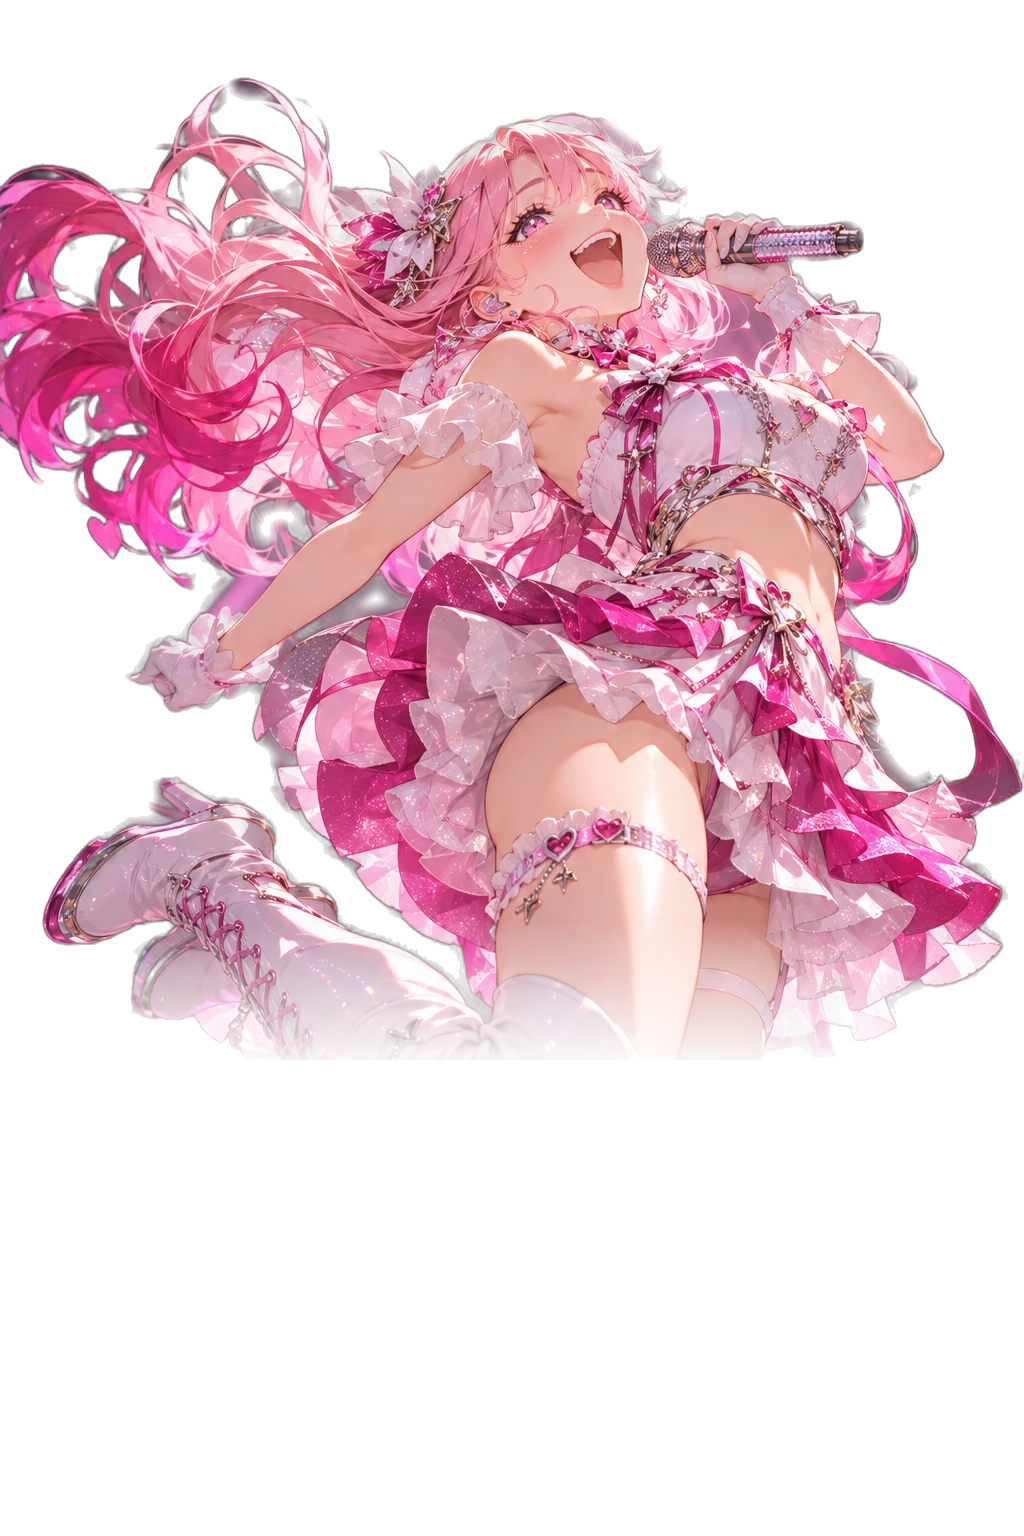
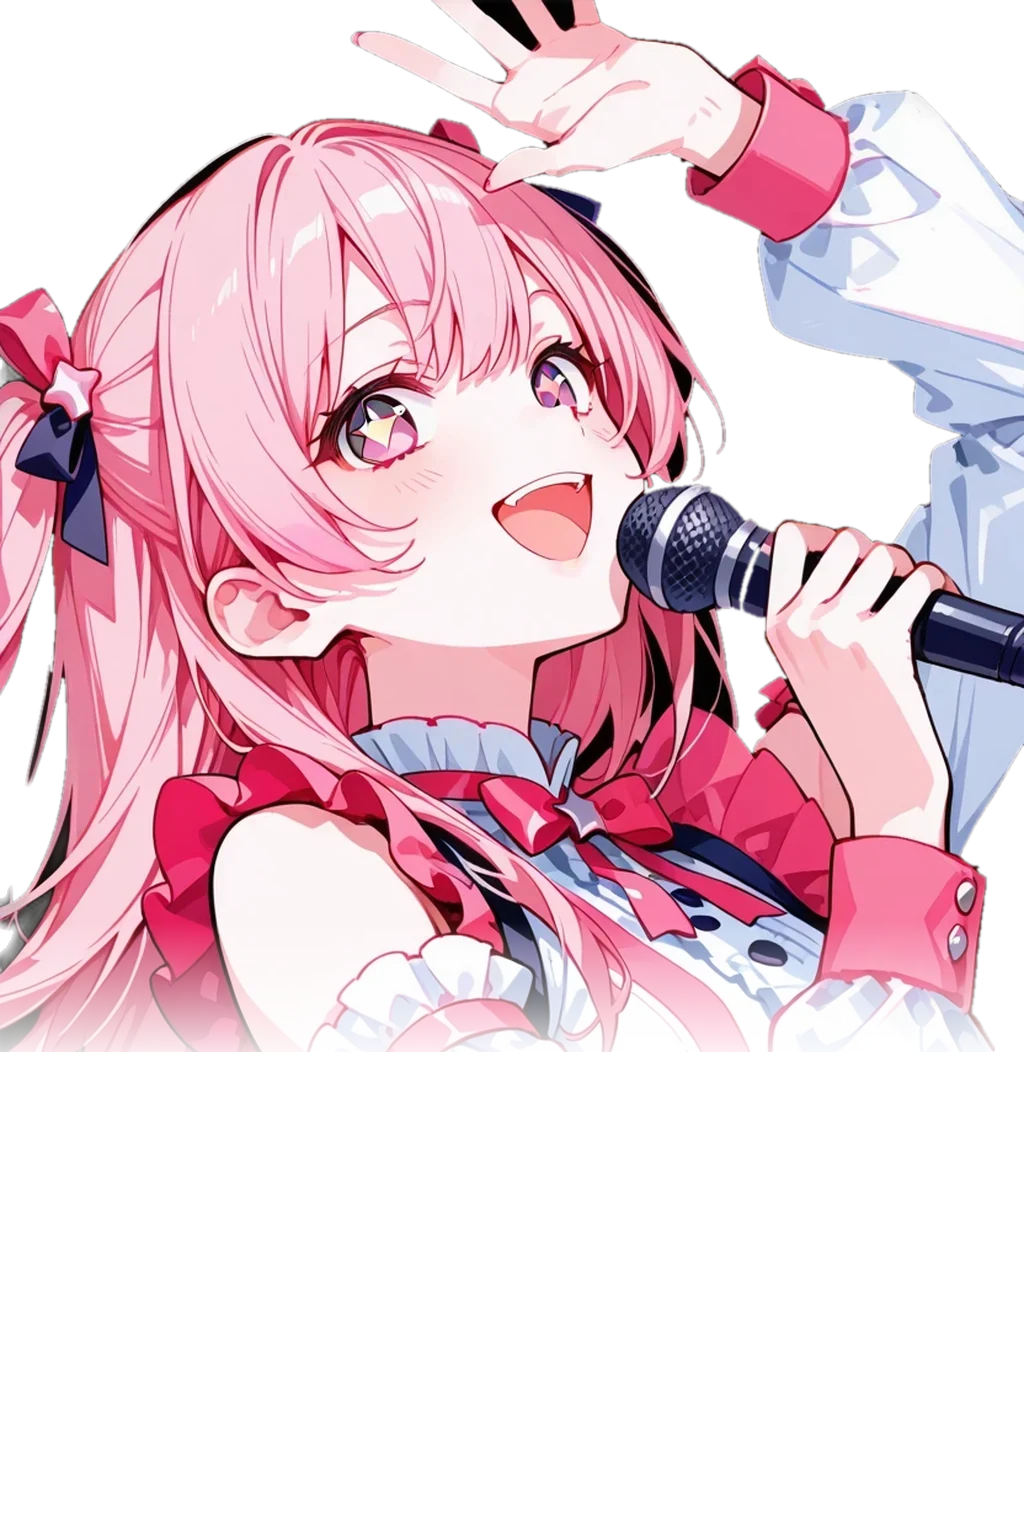
ミレイの絵を PixAI の絵に差し替え、闇堕ちのプロンプトをこちらを見下ろす形にする

diff --git a/apps/web/public/sw.js b/apps/web/public/sw.js
@@ -7,7 +7,7 @@
  * - API・ログイン・オンライン対戦（Socket.IO）：いつもネット（保存しない）
  * 中身を変えたら VERSION を上げる（古い保存は消える）。今ある絵を同じ名前で差し替えたときも上げる（すぐ届くように）
  */
-const VERSION = "v11";
+const VERSION = "v12";
 const PAGES = `trends-pages-${VERSION}`;
 const BUILD = `trends-build-${VERSION}`;
 const ART = `trends-art-${VERSION}`;

diff --git a/docs/card-art-orders.md b/docs/card-art-orders.md
@@ -1675,7 +1675,13 @@ best quality, high quality, highres, clean lineart, sharp focus, anime screencap
 shiny skin, glossy, oily skin, wet, specular highlights, rim lighting, backlighting, glowing, bloom, lens flare, sparkles, light particles, bokeh, depth of field, thick painting, realistic, photorealistic, photo, 3d, cgi, heavy gradient, overdetailed, intricate details, detailed hair strands, generic face, expressionless, midriff, navel, revealing clothes, miniskirt, upskirt, panties, underwear, cleavage, crowd, audience, multiple girls, text, logo, signature, watermark, border, frame, bad hands, extra fingers, missing fingers, extra arms, extra legs, blurry lineart, lowres, worst quality
 ```
 
-闇堕ち（病み期のミレイ）は、同じシードで、ポジティブの次の語だけ入れ替える：「ピンクの色調」→「暗い紫の色調」、「毛先がマゼンタ」→「毛先が紫」、「星形の瞳」→「ハイライトのない赤い瞳」、「満面の笑み」→「口元だけのかすかな笑み」、「白とマゼンタのアイドル衣装」→「黒と深紅のアイドル衣装」、「濃い紺の背景」→「暗い紫の背景」、「斜めのピンクの縞」→「斜めの深紅の縞」、「ハートの紙吹雪を少し」→「黒い羽を少し」
+**11月2日に通常の絵を差し替えた**：上のプロンプトでオーナーが PixAI で描いた絵（片手を上げ、マイクを口元に、上を見て歌う）。元は `assets/original/c13.webp`（832×1472）。下を切って 2:3 にし、`c13-art.jpg` にした。切り抜き `c13-subject.webp` は `tools/cutout.py --fade-from 0.6` のあと、腕と頭の間に残った黒い地と、本体から離れた紙吹雪を消した。前の ChatGPT の絵は `assets/original/c13-chatgpt.webp`。闇堕ちの絵はまだ前のまま。
+
+闇堕ち（病み期のミレイ）：同じポーズでは上を向いて歌っていて、こちらを向かないのが良くない（オーナー：「こっちを向いた上で、ちょっと見下す感じに」）。歌うのをやめ、あごを上げてこちらを見下ろす形にした。顔をそろえるため、通常の絵と同じシードで。ポジティブ：
+```text
+best quality, high quality, highres, clean lineart, sharp focus, anime screencap, cel shading, flat color, 2-tone shading, thick outlines, limited palette, 2d, solo, empty space at bottom, 暗い紫の色調, 女の子1人, アイドル, 若い女性, ロングヘア, 淡いピンクの髪, 毛先が紫, 二つ結び, 流れる髪, ハイライトのない赤い瞳, こちらを見る, 見下す目線, 半目, あごを少し上げる, 口を閉じる, 片方の口角だけ上げた冷たい笑み, 黒と深紅のアイドル衣装, 長袖, 肩のフリル, ハイネック, マイクを胸の下で持つ, 片手を腰に, 上半身, 正面, やや下から, 髪がなびく, 暗い紫の背景, 斜めの深紅の縞, 黒い羽を少し
+```
+ネガティブは通常の英語版の最後に `looking away, looking up, closed eyes, singing, open mouth, big smile` を足す。
 
 ### g18 大御所コメンテーター
 ```text

diff --git a/docs/history.md b/docs/history.md
@@ -2135,3 +2135,10 @@
 - 新しい型（[card-art-prompt.md](card-art-prompt.md)「★4以下のキャラクター（描き直し）」）は別のプロジェクトに入れ、原画 3 枚はソースに入れない。体が崩れにくい決まり（手は握る・開く・隠すのどれか、腕や脚を組まない、動きは 1 つ）を足した
 - 54 枚の注文（[card-art-orders-low.md](card-art-orders-low.md)）：人物 34 枚・人ではないもの 20 枚。★が低いほど人ではないものを多くした（野次馬は馬、鍵垢はヤドカリ、古参は亀 など）。ポーズは言葉の引き出し（人物 28・動物とものが 17）から割り振り、同じポーズは 2 回まで・同じ属性では重ねない。ポーズの資料画像は、体が崩れやすいので作らない
 - 次は最初の 6 枚を試し、テカリと体の崩れを見てから型を直して残りへ進む
+
+## 11月2日：ミレイの絵を PixAI の絵に差し替える
+
+- オーナーが PixAI で描き直した（品質と絵柄の語は英語、キャラクターの部分は日本語のプロンプト。ネガティブは英語）。平らな塗りと少ない色の絵
+- 832×1472 で届いたので、下を切って 2:3 にした。切り抜きは `tools/cutout.py` のあと、腕と頭の間に残った黒い地と紙吹雪を消した。カード面では上げた手が枠の上へはみ出る
+- `rembg` は Intel の Mac だと最新の `numba` が組み立てられないので、`numba==0.60.0`・`llvmlite==0.43.0`・`numpy<2.1` に固定して入れた
+- 病み期のミレイは、同じポーズだとこちらを向かない（オーナー：「こっちを向いた上で、ちょっと見下す感じに」）。歌うのをやめて、あごを上げて見下ろす形のプロンプトにした（[card-art-orders.md](card-art-orders.md)）
